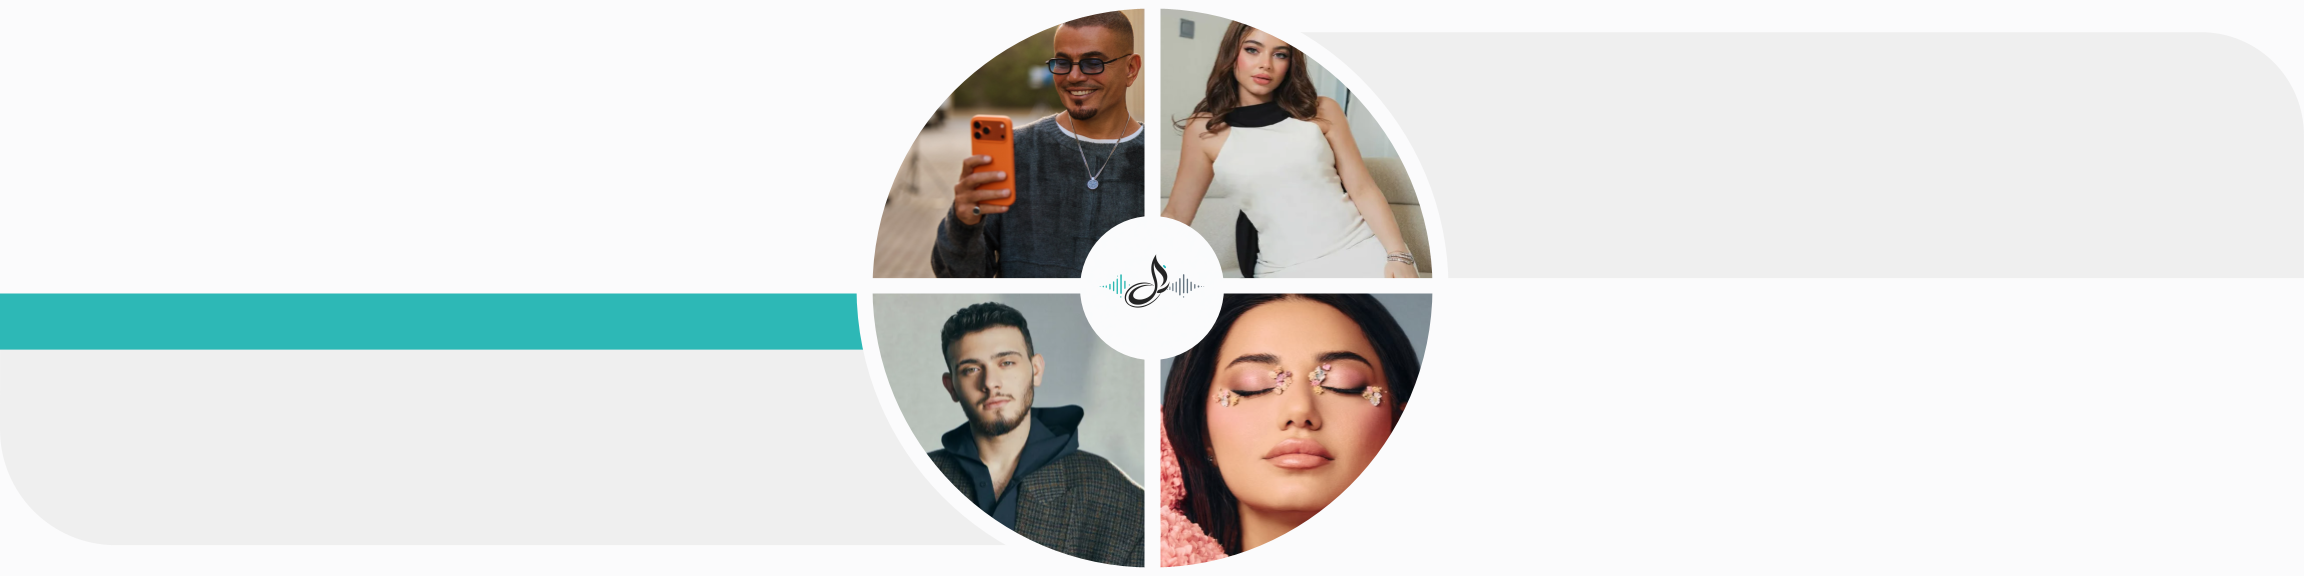
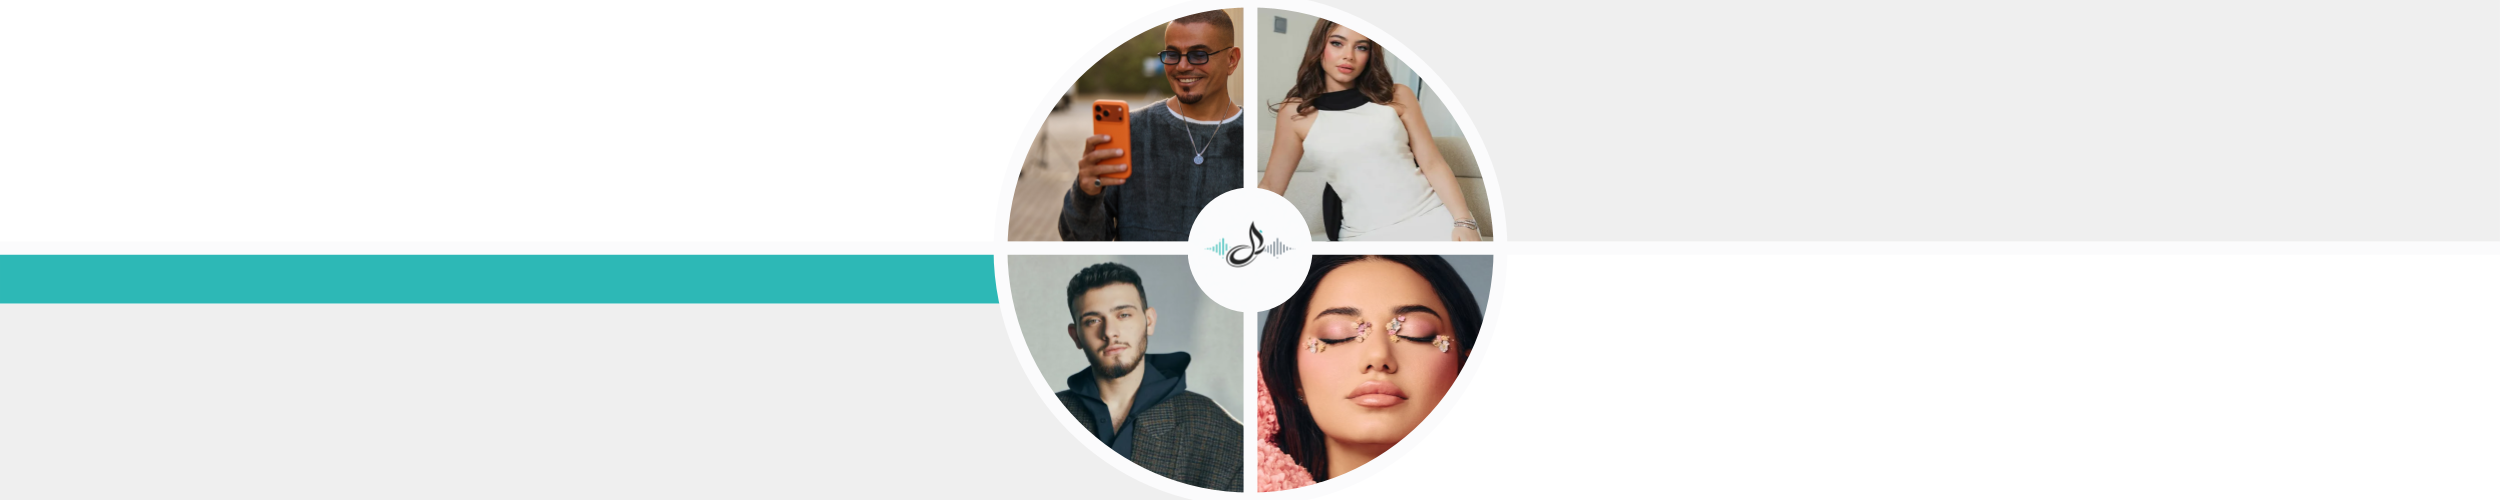
active

Changed region(s): [[0.3438, 0.0, 0.625, 0.99]]

diff --git a/styles.css b/styles.css
@@ -6,7 +6,8 @@
 
     --text: #ffffff;
     --muted: rgba(255, 255, 255, 0.4);
-    --radius: 4vw;
+    /*--radius: max(4vh,4vw);*/
+    --radius: 3vw;
     --player-shadow:  0 50px 100px -20px rgba(0, 0, 0, 0.8) ;
     --sk-shadow: -2px -6px 20px 0px rgb(0 0 0 / 15%); 
     --sk-border-shadow : 0 0 10px 0px rgb(0 0 0 / 15%);
@@ -58,6 +59,7 @@ img.cover {
 #mainBanner {
     width: var(--list-width) !important;
     border-radius: var(--radius);
+    border: var(--glass-border);
 }
 .intro {
     text-align: center;
@@ -438,9 +440,7 @@ h3.lang-ar, a.lang-ar  {
     line-height: 1;
     padding: 1vh 1vw ;  
     display: flex;
-    /*column-gap: 1em;*/
     border: solid 1px transparent;
-
 }
 .mobile-nav-links a:hover {
     opacity: 1;
@@ -451,6 +451,22 @@ h3.lang-ar, a.lang-ar  {
     box-shadow: var(--button-shadow);   
     border: var(--glass-border) ;
 } 
+a.nav-link.active { 
+   opacity: 1;
+    color: black;
+ }
+
+ a.nav-link.active::before {
+    content: " | ";
+    content: ">";
+    display: list-item;
+    align-content: center;
+    color: var(--sk-yellow);
+    list-style: none;
+    margin-inline-end: 8px;
+}
+
+
 
 .nav-icon { 
     height: 30px;

diff --git a/index.html b/index.html
@@ -48,7 +48,8 @@
       <h3 class="lang-en">Main</h3>
       <h3 class="lang-ar">أساسيات</h3>
       <nav class="mobile-nav-links">
-        <a href="" class="nav-link">
+
+        <a href="" class="nav-link active">
           <img src="nav/home.png" alt="" class="nav-icon" width="20" height="20">
           <span class="lang-en">Home</span>
           <span class="lang-ar">الرئيسية</span>
@@ -128,7 +129,7 @@
     </div>
 
     <div class="lang-switcher flip">
-        <button data-lang="en">En</button> 
+        <button data-lang="en">en</button> 
         <button class="active" data-lang="ar">ع</button>
     </div>
 </header>
@@ -136,7 +137,7 @@
 <main class="layout home">
 
   <section class="intro">
-    <img id="mainBanner" class="cover" src="media/mainBanner.jpg" alt="Most Watched Arabic Songs">
+    <img id="mainBanner" class="cover" src="media/mainBanner.png" alt="Most Watched Arabic Songs">
   </section>
 
   <section class="list list-main">

diff --git a/why/index.html b/why/index.html
@@ -80,7 +80,8 @@
       <h3 class="lang-en">About</h3>
       <h3 class="lang-ar">عن المشروع</h3>
       <nav class="mobile-nav-links">
-        <a href="../why/" class="nav-link">
+
+        <a href="../why/" class="nav-link active">
           <img src="/nav/why.png" alt="" class="nav-icon" width="20" height="20">
           <span class="lang-en">Why Aghani?</span>
           <span class="lang-ar">لماذا أغاني؟</span>
@@ -140,7 +141,7 @@
   </div>
 
     <div class="lang-switcher">
-      <button data-lang="en">En</button>
+      <button data-lang="en">en</button>
       <button data-lang="ar">ع</button>
     </div>
           

diff --git a/methodology/index.html b/methodology/index.html
@@ -66,7 +66,7 @@
           <span class="lang-ar">الترتيبات</span>
         </a>
         
-        <a href="../methodology/" class="nav-link">
+        <a href="../methodology/" class="nav-link active">
           <img src="/nav/gear.png" alt="" class="nav-icon" width="20" height="20">
           <span class="lang-en">Sources & Methodology</span>
           <span class="lang-ar">المصادر والمنهجية</span>
@@ -138,7 +138,7 @@
   </div>
   
    <div class="lang-switcher">
-        <button data-lang="en">En</button>
+        <button data-lang="en">en</button>
         <button data-lang="ar">ع</button>
     </div>
 </header>

diff --git a/feedback/index.html b/feedback/index.html
@@ -111,7 +111,8 @@
       <h3 class="lang-en">Connect</h3>
       <h3 class="lang-ar">تواصل</h3>
       <nav class="mobile-nav-links">
-        <a href="../feedback/" class="nav-link">
+        
+        <a href="../feedback/" class="nav-link active">
           <img src="/nav/feedback.png" alt="" class="nav-icon" width="20" height="20">
           <span class="lang-en">Feedback</span>
           <span class="lang-ar">ملاحظات</span>
@@ -146,7 +147,7 @@
   </div>
   
   <div class="lang-switcher">
-    <button data-lang="en">En</button>
+    <button data-lang="en">en</button>
     <button data-lang="ar">ع</button>
   </div>
 

diff --git a/ranking/index.html b/ranking/index.html
@@ -64,7 +64,7 @@
           <span class="lang-ar">الرئيسية</span>
         </a>
         
-        <a href="../ranking/" class="nav-link">
+        <a href="../ranking/" class="nav-link active">
           <img src="/nav/rank.png" alt="" class="nav-icon" width="20" height="20">
           <span class="lang-en">Rankings</span>
           <span class="lang-ar">الترتيبات</span>
@@ -141,7 +141,7 @@
     </div>
 
     <div class="lang-switcher flip">
-        <button data-lang="en">En</button> 
+        <button data-lang="en">en</button> 
         <button class="active" data-lang="ar">ع</button>
     </div>
 </header>

diff --git a/privacy/index.html b/privacy/index.html
@@ -87,7 +87,7 @@
           <span class="lang-ar">لماذا أغاني؟</span>
         </a>
         
-        <a href="../privacy/" class="nav-link">
+        <a href="../privacy/" class="nav-link active">
           <img src="/nav/lock.png" alt="" class="nav-icon" width="20" height="20">
           <span class="lang-en">Privacy Policy</span>
           <span class="lang-ar">سياسة الخصوصية</span>
@@ -140,7 +140,7 @@
   </div>
 
   <div class="lang-switcher">
-      <button data-lang="en">En</button>
+      <button data-lang="en">en</button>
       <button data-lang="ar">ع</button>
   </div>
 

diff --git a/terms/index.html b/terms/index.html
@@ -94,7 +94,7 @@
           <span class="lang-ar">سياسة الخصوصية</span>
         </a>
         
-        <a href="../terms/" class="nav-link">
+        <a href="../terms/" class="nav-link active">
           <img src="/nav/terms.png" alt="" class="nav-icon" width="20" height="20">
           <span class="lang-en">Terms of Service</span>
           <span class="lang-ar">شروط الخدمة</span>
@@ -142,7 +142,7 @@
   </div>
 
   <div class="lang-switcher">
-    <button data-lang="en">En</button>
+    <button data-lang="en">en</button>
     <button data-lang="ar">ع</button>
   </div>
 
